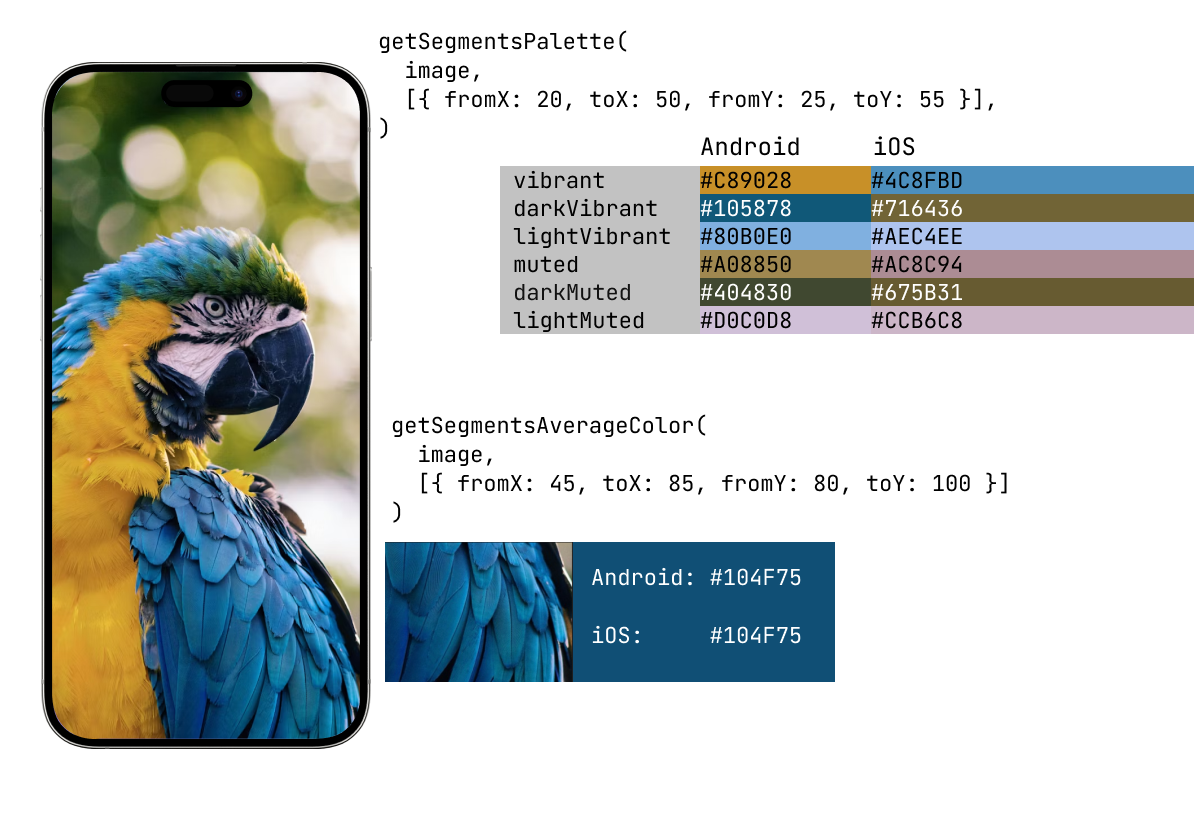
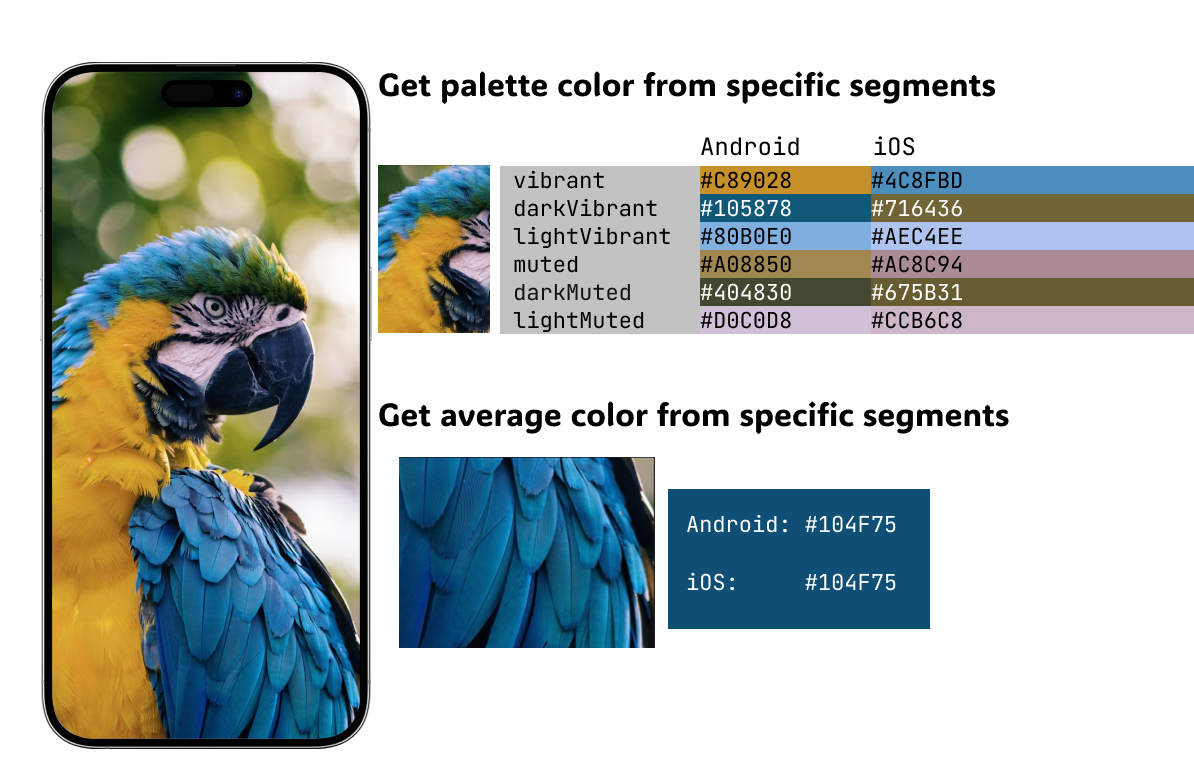
chore: preview update

diff --git a/README.md b/README.md
@@ -15,6 +15,15 @@ For palette calculation this module uses the [Palette](https://developer.android
 Since the implementation of getting palette is different for each platform you can get **different color results for each**.\
 Results of calculating average color will be more accurate and only have insufficient difference.
 
+
+<p align="center" >
+  <img
+    width="720px"
+    src="https://github.com/someSOAP/react-native-image-palette/blob/main/assets/preview.png?raw=true"
+    alt="Example 1"
+  />
+</p>
+
 ## Installation
 
 ```sh
